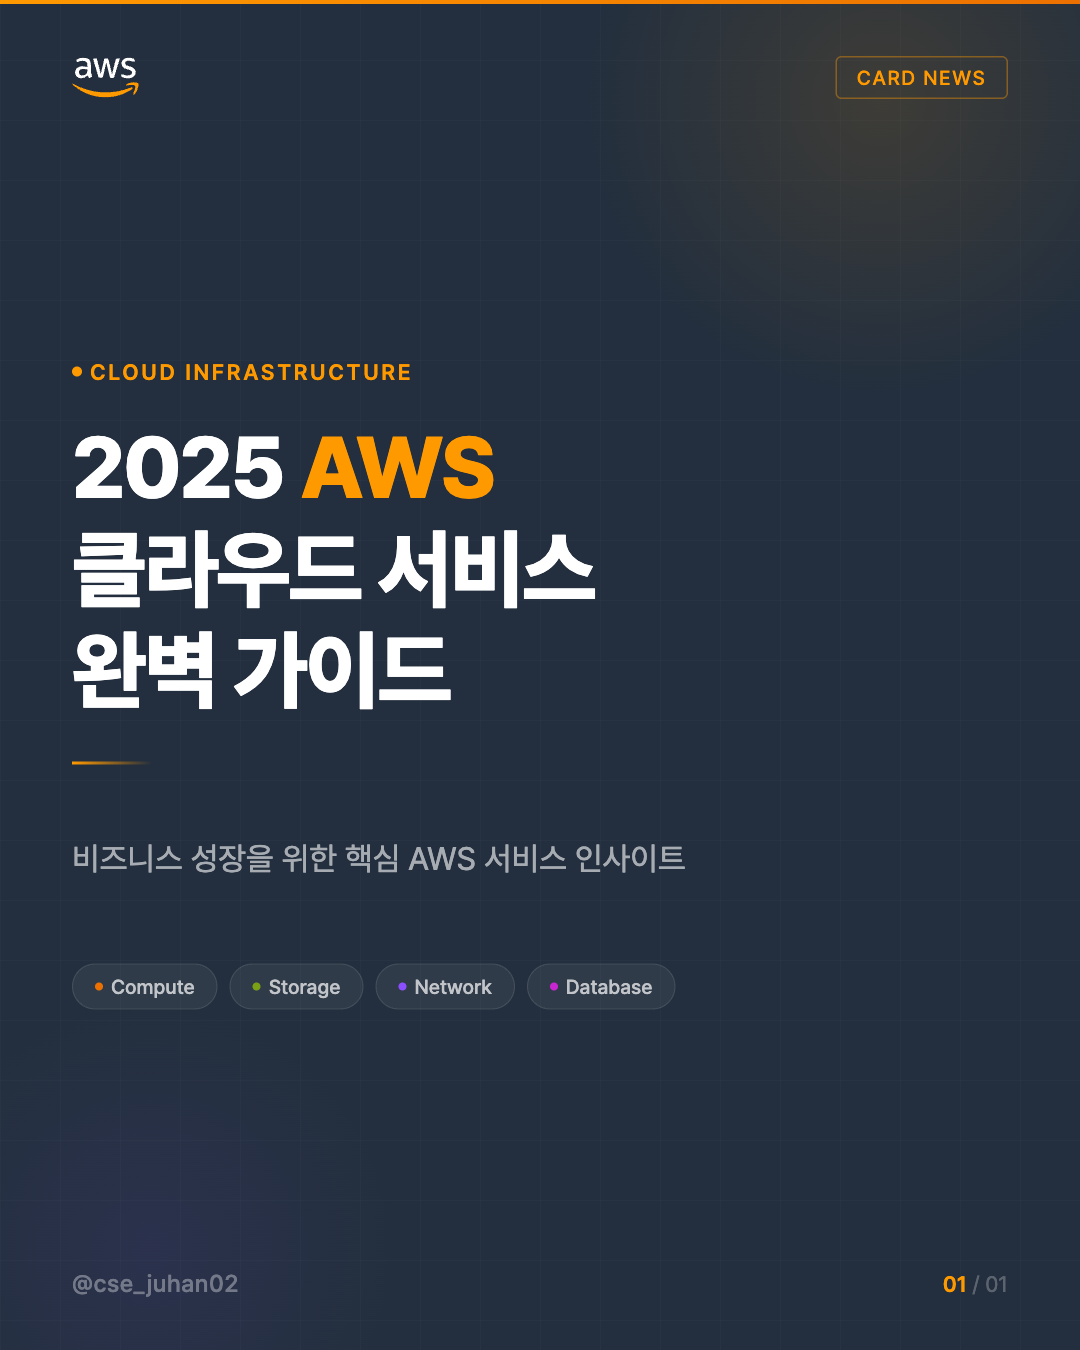
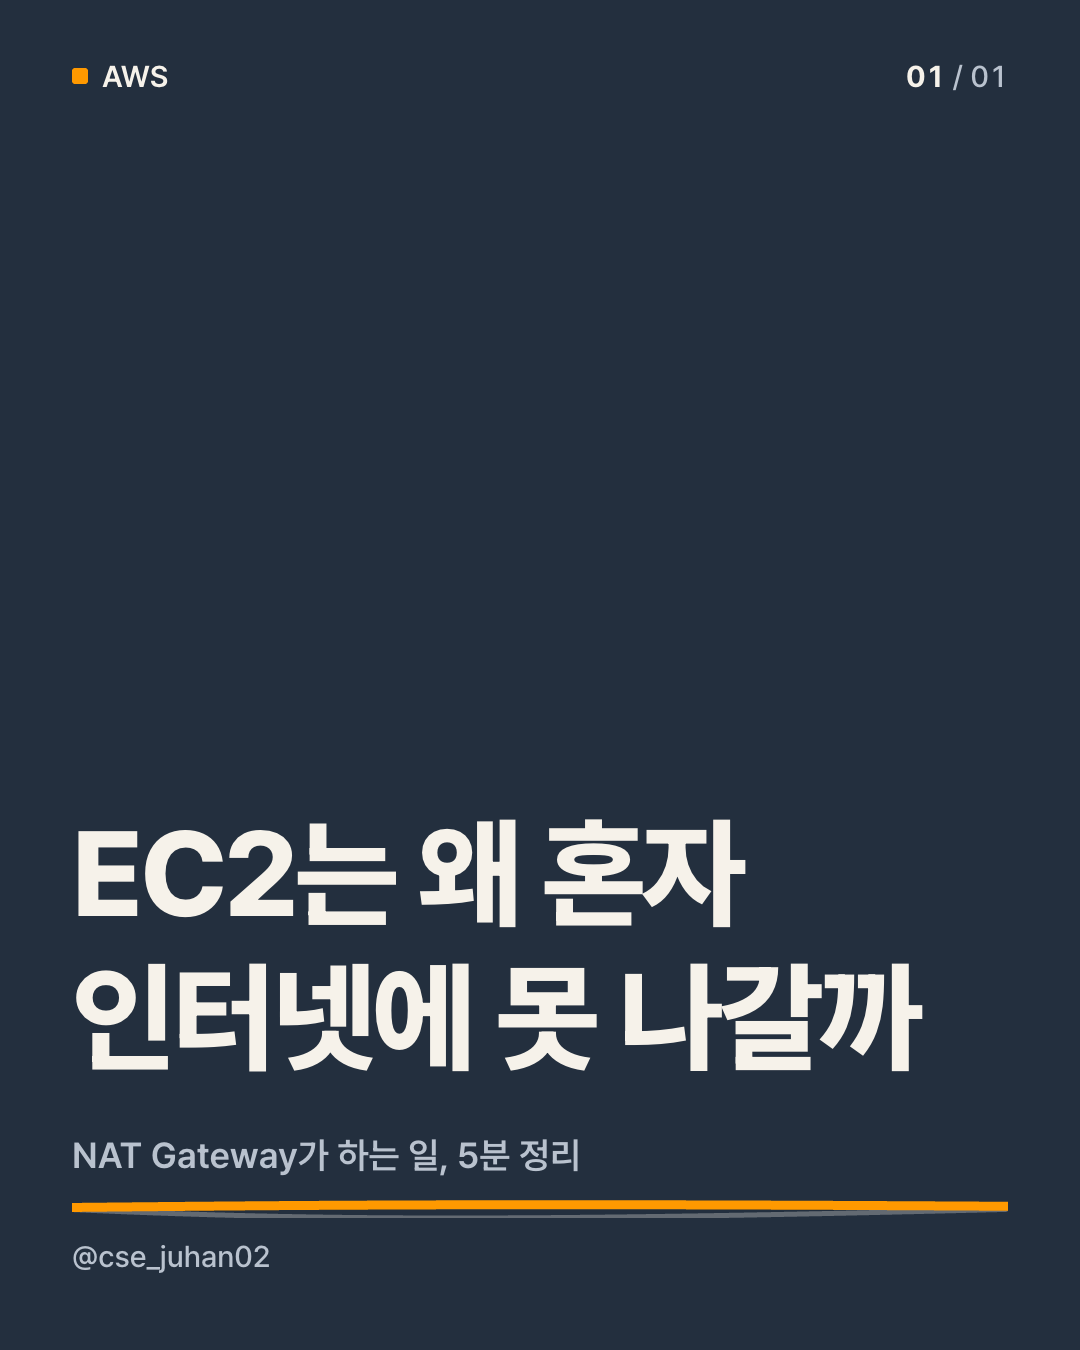
Update docs and style-example for the redesigned aws style
style-aws.md fully rewritten: chosen background direction, color
tokens with measured contrast, content-code/content-console field
docs (including the outline-not-fill highlight rule and the
image-pixel-coordinate system for crop/callouts/redact), the object
library, official AWS Architecture Icons handling (unused for now —
data-doodle-skip/data-aws-icon documented for if that changes later,
with the permitted-use line from aws.amazon.com/architecture/icons
cited), and an aws-specific copy-rules section layered on cs-v2's.

card-news.md: added content-console to the slide-type reference,
aws items to the evaluator checklist (sensitive-info check, callout
legibility at 360px, fact/service-name accuracy, code highlight
correctness), and the aws copy-rules section itself.

CLAUDE.md/README.md/BOOTSTRAP_PROMPT.md/create-template.md: updated
the aws description and directory trees to match (18 templates,
build-aws.js, doodle/themes/, dual sprite files) and moved aws out
of the "dark + grid pattern" style-reference row it no longer fits,
into a new row alongside cs-doodle.

style-example/aws.png regenerated from the new cover template.

diff --git a/.claude/skills/card-news.md b/.claude/skills/card-news.md
@@ -230,7 +230,8 @@ description: "카드뉴스 생성 파이프라인 (Harness v1.0). 사용자가 '
 | `content-grid` | 4가지 항목을 그리드로 정리할 때 | `headline`, `grid1_icon`~`grid4_icon`, `grid1_title`~`grid4_title`, `grid1_desc`~`grid4_desc` |
 | `content-bigdata` | 거대 숫자/금액/규모를 강조할 때 | `headline`, `bigdata_number`, `bigdata_unit`, `body`, `subtext` |
 | `content-fullimage` | 풀 배경 이미지 위에 텍스트 오버레이 | `headline`, `badge_text`, `body`, `badge2_text`, `body2`, `image_url` |
-| `content-code` | 코드 블럭 + 설명 (`rn`/`aws`/`linux` 전용) | `headline`, `code_filename`, `code_body`, `body` |
+| `content-code` | 코드 블럭 + 설명 (`rn`/`aws`/`linux` 전용) | `headline`, `code_filename`, `code_body`, `body` (aws는 `highlight_lines`, `annotations` 추가 지원 — `style-aws.md` 참고) |
+| `content-console` | 콘솔 스크린샷 + 주석 (`aws` 전용) | `headline`, `screenshot`, `crop`, `callouts`, `redact` — 좌표계·필드 상세는 `style-aws.md` |
 
 > 템플릿별 전용 슬라이드 타입은 해당 `/style-{name}` 스킬에서 확인하세요.
 
@@ -268,6 +269,23 @@ description: "카드뉴스 생성 파이프라인 (Harness v1.0). 사용자가 '
 9. **`my_note`는 초안 생성 시 만들지 않는다.** 작성자 한 줄 코멘트는 파이프라인이 대신 지어내지 않는다 — 사용자가 "N번 장에 이 코멘트 넣어줘"라고 직접 요청할 때만 `/edit-card-news`로 추가한다.
 10. **헤드라인 금지 패턴**: `—` 구분자, `A · B · C` 가운뎃점 나열, 제목 속 단어 하나 색칠
 11. **대체 텍스트**: slides.json 각 장에 `alt` 필드(1~2문장, 이미지에 보이는 내용 묘사)를 쓴다. 렌더링에는 쓰이지 않고 `caption.md`에 들어간다.
+
+### aws 카피 규칙 (aws 스타일에서는 위 cs-v2 카피 규칙에 아래를 더한다)
+
+aws는 cs-v2 카피 규칙(장당 핵심 1 + 보조 1, 훅 헤드라인, `content-cheatsheet` 고정, `cta` 미사용,
+`my_note` 기본 미생성, `alt` 필드 등)을 그대로 따르되 다음을 더한다.
+
+1. **바뀌는 정보는 작성 시점에 공식 문서로 확인한다.** 요금, 프리 티어, 서비스 한도, 콘솔 UI 문구는
+   AWS 공식 문서 기준으로 검증하고, `caption.md`에 확인 기준일을 적는다(예: "2026-09 기준").
+2. **콘솔 스크린샷 장은 캡처 시점을 캡션에 적는다.** 콘솔 UI는 자주 바뀐다.
+3. **서비스명 첫 등장은 공식 전체 명칭**(예: "Amazon EC2", "AWS Lambda", "Amazon VPC")으로 쓰고,
+   이후 슬라이드부터는 약칭(EC2, Lambda, VPC)을 써도 된다.
+4. **마지막 장 `content-cheatsheet`는 주제에 맞춰** "설정 체크리스트" / "CLI 한 장 요약" / "서비스
+   비교표" 중 하나로 쓴다.
+5. **스크린샷을 쓸 땐 `content-console`의 `crop`을 기본으로 쓴다.** 원본 그대로 축소하면 콘솔 글씨가
+   안 읽힌다. 계정 ID·액세스 키·IP·이메일이 보이면 `redact`로 반드시 가린다.
+6. **코드(`content-code`)는 `highlight_lines`로 핵심 줄만 짚는다.** 스니펫 전체를 설명하려 하지 말고,
+   그 장의 요점과 직결된 1~2줄만 강조하고 `annotations`로 이유를 짧게 단다.
 
 ---
 
@@ -311,7 +329,7 @@ node scripts/lint-slides.js --slides workspace/slides.json --style cs-v2 \
 **모델**: sonnet
 **입력**:
 - `output/` 디렉토리의 PNG 파일 전체 (시각 검사)
-- cs-v2, cs-doodle: `output/preview/` 360px 축소본 전체 + `grid_cover.png`, `lint-slides.js` 출력 결과
+- cs-v2, cs-doodle, aws: `output/preview/` 360px 축소본 전체 + `grid_cover.png`, `lint-slides.js` 출력 결과
 - `workspace/slides.json` (데이터 검사)
 - `workspace/contract.md` (수락 기준)
 - `workspace/spec.md` (기획 의도)
@@ -324,14 +342,20 @@ node scripts/lint-slides.js --slides workspace/slides.json --style cs-v2 \
 ### 평가 수행 항목
 
 1. **시각 검사** (PNG): 텍스트 오버플로, 빈 공간 비율, 정렬, 색상 일관성, 가독성, style_override 적용 결과
-   - **cs-v2, cs-doodle**: 가독성은 원본 PNG가 아니라 `output/preview/` **360px 축소본으로 판단**한다. 기준은 "폰으로 봤을 때 한 장당 2~3초 안에 핵심이 읽히는가"이다. `grid_cover.png`에서 헤드라인과 비주얼이 온전한지도 확인한다.
-   - **cs-v2, cs-doodle**: lint error가 1개라도 남아 있으면 기술적 완성도 축은 5점 이하(자동 불통과)로 채점한다. warning은 슬라이드별 피드백에 적는다.
-   - **cs-v2, cs-doodle**: 물감(도형) 색과 수식 변수 색이 같은 개념 토큰인지 확인한다.
+   - **cs-v2, cs-doodle, aws**: 가독성은 원본 PNG가 아니라 `output/preview/` **360px 축소본으로 판단**한다. 기준은 "폰으로 봤을 때 한 장당 2~3초 안에 핵심이 읽히는가"이다. `grid_cover.png`에서 헤드라인과 비주얼이 온전한지도 확인한다.
+   - **cs-v2, cs-doodle, aws**: lint error가 1개라도 남아 있으면 기술적 완성도 축은 5점 이하(자동 불통과)로 채점한다. warning은 슬라이드별 피드백에 적는다.
+   - **cs-v2, cs-doodle, aws**: 물감(도형) 색과 수식/역할 변수 색이 같은 개념 토큰인지 확인한다.
    - **cs-doodle 전용**:
      - 360px 미리보기에서 핵심이 2~3초 안에 읽히는가 (그림체가 부드러워졌다고 가독성이 희생되지 않았는지)
      - 그림이 설명을 돕는가, 장식에 그치는가 — 손그림이라는 이유로 정보 없는 낙서를 늘리지 않았는지
      - 낙서 질감(흔들리는 선, 해쳐 채움)이 라벨·수식·화살표 방향 같은 정보를 흐리지 않는가
      - 한 덱 안에서 그림체(선 굵기, 거칠기, 채색 방식)가 일관적인가 — 슬라이드마다 손맛의 정도가 달라 보이지 않는지
+   - **aws 전용**:
+     - 스크린샷에 계정 ID, 액세스 키, IP, 이메일 등 민감정보가 보이지 않는가 (lint의 `sensitive-*` warning과 별개로 이미지 픽셀 자체를 육안 확인 — lint는 텍스트 필드만 훑는다)
+     - 스크린샷 주석(callouts)이 가리키는 UI가 360px 미리보기에서도 식별되는가
+     - 서비스명이 공식 표기이고, 사실관계(요금, 한도, 기본값)가 공식 문서와 맞는가
+     - 공식 아이콘을 쓴 경우(기본은 미사용) 변형이 없는가
+     - 코드 장의 하이라이트·주석이 실제 핵심 줄을 가리키는가, 카드 하단을 침범하지 않는가
 2. **데이터 검사** (slides.json): 서사 흐름, 카피 품질, 후킹력, 글자 수, 슬라이드 타입 다양성
 3. **4축 채점**: 각 축 1~10점
 4. **슬라이드별 피드백**: OK 또는 구체적 수정 제안
@@ -429,9 +453,9 @@ node scripts/lint-slides.js --slides workspace/slides.json --style cs-v2 \
 output/slide_01.png ~ output/slide_{count}.png
 ```
 
-### cs-v2, cs-doodle: `output/caption.md` 생성
+### cs-v2, cs-doodle, aws: `output/caption.md` 생성
 
-cs-v2, cs-doodle 결과물은 PNG와 함께 오케스트레이터가 `output/caption.md`를 작성합니다. 캡션, 대체 텍스트, 해시태그는 콘텐츠 분류와 검색 노출(공개 게시물은 구글 검색 포함)에 쓰입니다.
+cs-v2, cs-doodle, aws 결과물은 PNG와 함께 오케스트레이터가 `output/caption.md`를 작성합니다. 캡션, 대체 텍스트, 해시태그는 콘텐츠 분류와 검색 노출(공개 게시물은 구글 검색 포함)에 쓰입니다.
 
 ```markdown
 # 캡션
@@ -454,6 +478,8 @@ cs-v2, cs-doodle 결과물은 PNG와 함께 오케스트레이터가 `output/cap
 - **캡션 본문은 한 줄로만 쓴다.** 여러 줄로 나눠 쓰지 않는다 — 검색 키워드와 핵심을 한 문장에 담는다. 예: "EC2 Status Check와 자동 복구: 호스트·인스턴스·EBS 중 어디서 장애가 나든 감지해서 살려내는 법"
 - **해시태그는 5개 이하**로 쓴다. 게시물당 5개로 제한됐고 도달을 올려 주지 않으므로 분류용으로만 고른다.
 - 대체 텍스트는 slides.json의 `alt` 필드를 그대로 쓰고, 슬라이드 수와 개수가 같아야 한다.
+- **aws**: 요금·한도처럼 바뀌는 정보나 콘솔 스크린샷을 썼다면 캡션 본문 또는 대체 텍스트 뒤에 확인
+  기준일을 짧게 덧붙인다(예: "2026-09 기준").
 
 ---
 

diff --git a/CLAUDE.md b/CLAUDE.md
@@ -33,7 +33,7 @@
 | `magazine` | 매거진 스타일, 포토 오버레이 | `/style-magazine` |
 | `clean` | 클린 에디토리얼형, 라이트그레이 | `/style-clean` |
 | `blueprint` | 블루프린트 프레젠테이션형 | `/style-blueprint` |
-| `aws` | AWS 서비스 소개형, 다크 네이비 | `/style-aws` |
+| `aws` | AWS 서비스/아키텍처/콘솔 튜토리얼형, cs-doodle 손그림 낙서풍 + Squid Ink 다크, 4:5 (1080×1350) | `/style-aws` |
 | `rn` | React Native 튜토리얼형, 스플릿 | `/style-rn` |
 | `cs` | CS 교육 콘텐츠형, 브라우저 프레임 (이전 게시물 재렌더링용) | `/style-cs` |
 | `cs-v2` | CS 교육 콘텐츠 v2, 웜 페이퍼 + 개념 색 토큰, 4:5 (1080×1350) | `/style-cs-v2` |
@@ -114,20 +114,24 @@ instagram-card-news/
 │   ├── magazine/        # 14종
 │   ├── clean/           # 14종
 │   ├── blueprint/       # 14종
-│   ├── aws/             # 14종
 │   ├── rn/              # 20종 (공통 14 + rn 전용 6)
 │   ├── cs/              # 14종 (1080×1080)
 │   ├── cs-v2/           # 16종 (1080×1350, 공통 14 + content-diagram, content-cheatsheet) ※ build-cs-v2.js가 생성
 │   ├── cs-doodle/       # 16종 (1080×1350, cs-v2와 동일 구성 + 손그림 그림체) ※ build-cs-doodle.js가 생성
+│   ├── aws/             # 18종 (1080×1350, cs-doodle과 같은 16종 + content-code, content-console) ※ build-aws.js가 생성
 │   └── linux/           # 15종 (1080×1080, content-code 포함)
 ├── scripts/
 │   ├── render.js        # Puppeteer HTML → PNG 렌더러 (--series, --preview)
-│   ├── lint-slides.js   # 가독성 검사 (글자 크기, 대비, 안전 영역, 오버플로, cs-doodle 결정성/겹침)
+│   ├── lint-slides.js   # 가독성 검사 (글자 크기, 대비, 안전 영역, 오버플로, 결정성/겹침, aws 전용 규칙)
 │   ├── build-cs-v2.js   # cs-v2 템플릿 생성기
-│   ├── build-cs-doodle.js # cs-doodle 템플릿 생성기
-│   ├── doodle/          # cs-doodle 드로잉 엔진 (rough.js 결정적 SVG, 클라이언트 변환기, 오브젝트 빌더)
+│   ├── build-cs-doodle.js # cs-doodle 템플릿 생성기 (얇은 진입점, 실제 로직은 doodle/build-core.js)
+│   ├── build-aws.js     # aws 템플릿 생성기 (얇은 진입점, cs-doodle과 같은 코어 공유)
+│   ├── doodle/          # 손그림 드로잉 엔진 (rough.js 결정적 SVG, 클라이언트 변환기, 오브젝트 빌더)
+│   │   ├── build-core.js      # cs-doodle/aws 공통 코어 (chrome, 16종 공통 타입, seed 규칙)
+│   │   └── themes/            # 테마별 팔레트·스프라이트·추가 타입 (cs-doodle.js, aws.js)
 │   └── generate-samples.js
-├── assets/doodle/       # cs-doodle 낙서 오브젝트 스프라이트 (build-objects.js가 생성) + README
+├── assets/doodle/       # 낙서 오브젝트 스프라이트: 공통 17종(sprite.svg, build-objects.js) +
+│                        # aws 확장 10종(sprite-aws.svg, build-objects-aws.js) + README
 ├── style-example/       # 각 스타일 커버 예시 PNG
 ├── workspace/           # 런타임 작업 공간 (gitignore — 스크래치, 버전관리 안 함)
 ├── output/              # 최종 PNG 출력 (gitignore)

diff --git a/BOOTSTRAP_PROMPT.md b/BOOTSTRAP_PROMPT.md
@@ -333,12 +333,14 @@ node scripts/render.js \
 - 하이라이트: `<span class='accent'>텍스트</span>` → 악센트 블루, `<span class='bar-highlight'>텍스트</span>` → 블루 바 배경
 - 추천: 비즈니스, 프레젠테이션, 교육, IT, 데이터, 기획
 
-#### aws — AWS 서비스 소개형
-- 배경: 다크 네이비 (#232F3E) + 격자 패턴 오버레이
-- 악센트: `#FF9900` (AWS 오렌지)
-- 폰트: Pretendard
-- 특징: AWS 오렌지 악센트, 서비스 아이콘 지원, 다크 배경 + 글로우 효과
-- 추천: AWS 서비스 소개, 클라우드 아키텍처, DevOps, 인프라 튜토리얼
+#### aws — AWS 서비스/아키텍처/콘솔 튜토리얼형 (1080×1350, cs-doodle 손그림 엔진 공유)
+- 배경: Squid Ink 다크 (#232F3E), 격자·글로우 없음
+- 악센트: `#FF9900` (AWS 오렌지, 마커 강조 전용 — 텍스트로는 안 씀)
+- 폰트: Pretendard Variable + JetBrains Mono(코드) + Gamja Flower(짧은 주석)
+- 특징: 손그림 낙서 오브젝트 + 역할 기반 색 토큰(k-pub/k-priv/k-compute/k-data/k-sec/k-danger),
+  content-code(코드 줄 강조/주석), content-console(스크린샷 callouts/crop/redact)
+- 추천: AWS 서비스 소개, 클라우드 아키텍처, 콘솔 실습, CLI/IaC 튜토리얼
+- 상세: `.claude/skills/style-aws.md`
 
 #### cs — CS 교육 콘텐츠형 (1080×1080)
 - 배경: 화이트 (#FFFFFF) + 브라우저 프레임 UI
@@ -408,7 +410,7 @@ Claude Code가 오케스트레이터 역할을 하며, 리서치 → **리서치
 - `magazine` — 매거진 스타일, 포토 오버레이 + 화이트 클린
 - `clean` — 클린 에디토리얼형, 라이트그레이 배경, 그린 하이라이트, 브랜드 마크
 - `blueprint` — 블루프린트 프레젠테이션형, 라이트블루그레이 배경, 소프트블루 악센트, ○○○ 장식
-- `aws` — AWS 서비스 소개형, 다크 네이비 배경, AWS 오렌지 악센트, Pretendard 폰트
+- `aws` — AWS 서비스/아키텍처/콘솔 튜토리얼형, cs-doodle 손그림 엔진 공유, Squid Ink 다크 배경, AWS 오렌지 마커
 - `rn` — React Native 개발 튜토리얼형, 시안/흰색 스플릿 배경, JetBrains Mono, 코드블럭(One Dark Pro) 지원
 - `cs` — CS 교육 콘텐츠형, 화이트 배경, 모노스페이스, 브라우저 프레임 UI
 - `linux` — Linux 정보 전달형, 다크 터미널 배경, Tux 골든 옐로우, JetBrains Mono
@@ -656,7 +658,7 @@ instagram-card-news/
 │   ├── magazine/        # 14종
 │   ├── clean/           # 14종
 │   ├── blueprint/       # 14종
-│   ├── aws/             # 14종
+│   ├── aws/             # 18종 (cs-doodle과 같은 16종 + content-code, content-console)
 │   ├── rn/              # 20종 (공통 14 + rn 전용 6)
 │   ├── cs/              # 14종 (1080×1080)
 │   └── linux/           # 15종 (1080×1080, content-code 포함)

diff --git a/.claude/skills/create-template.md b/.claude/skills/create-template.md
@@ -80,7 +80,8 @@ description: "새 템플릿 스타일 생성. '템플릿 만들어줘', '새 스
 | `bold` / `elegant` | 다크 배경, 그라디언트 |
 | `premium` | 글래스모피즘, 현대적 |
 | `toss` | 울트라 미니멀, 장식 최소 |
-| `aws` / `linux` | 다크 + 격자 패턴, 코드블럭 필요 시 |
+| `linux` | 다크 + 격자 패턴, 코드블럭 필요 시 |
+| `cs-doodle` / `aws` | 손그림 낙서풍 엔진 재사용(`scripts/doodle/`), 팔레트만 테마로 분리 |
 | `rn` | 스플릿 레이아웃, 코드 중심 |
 
 ---
